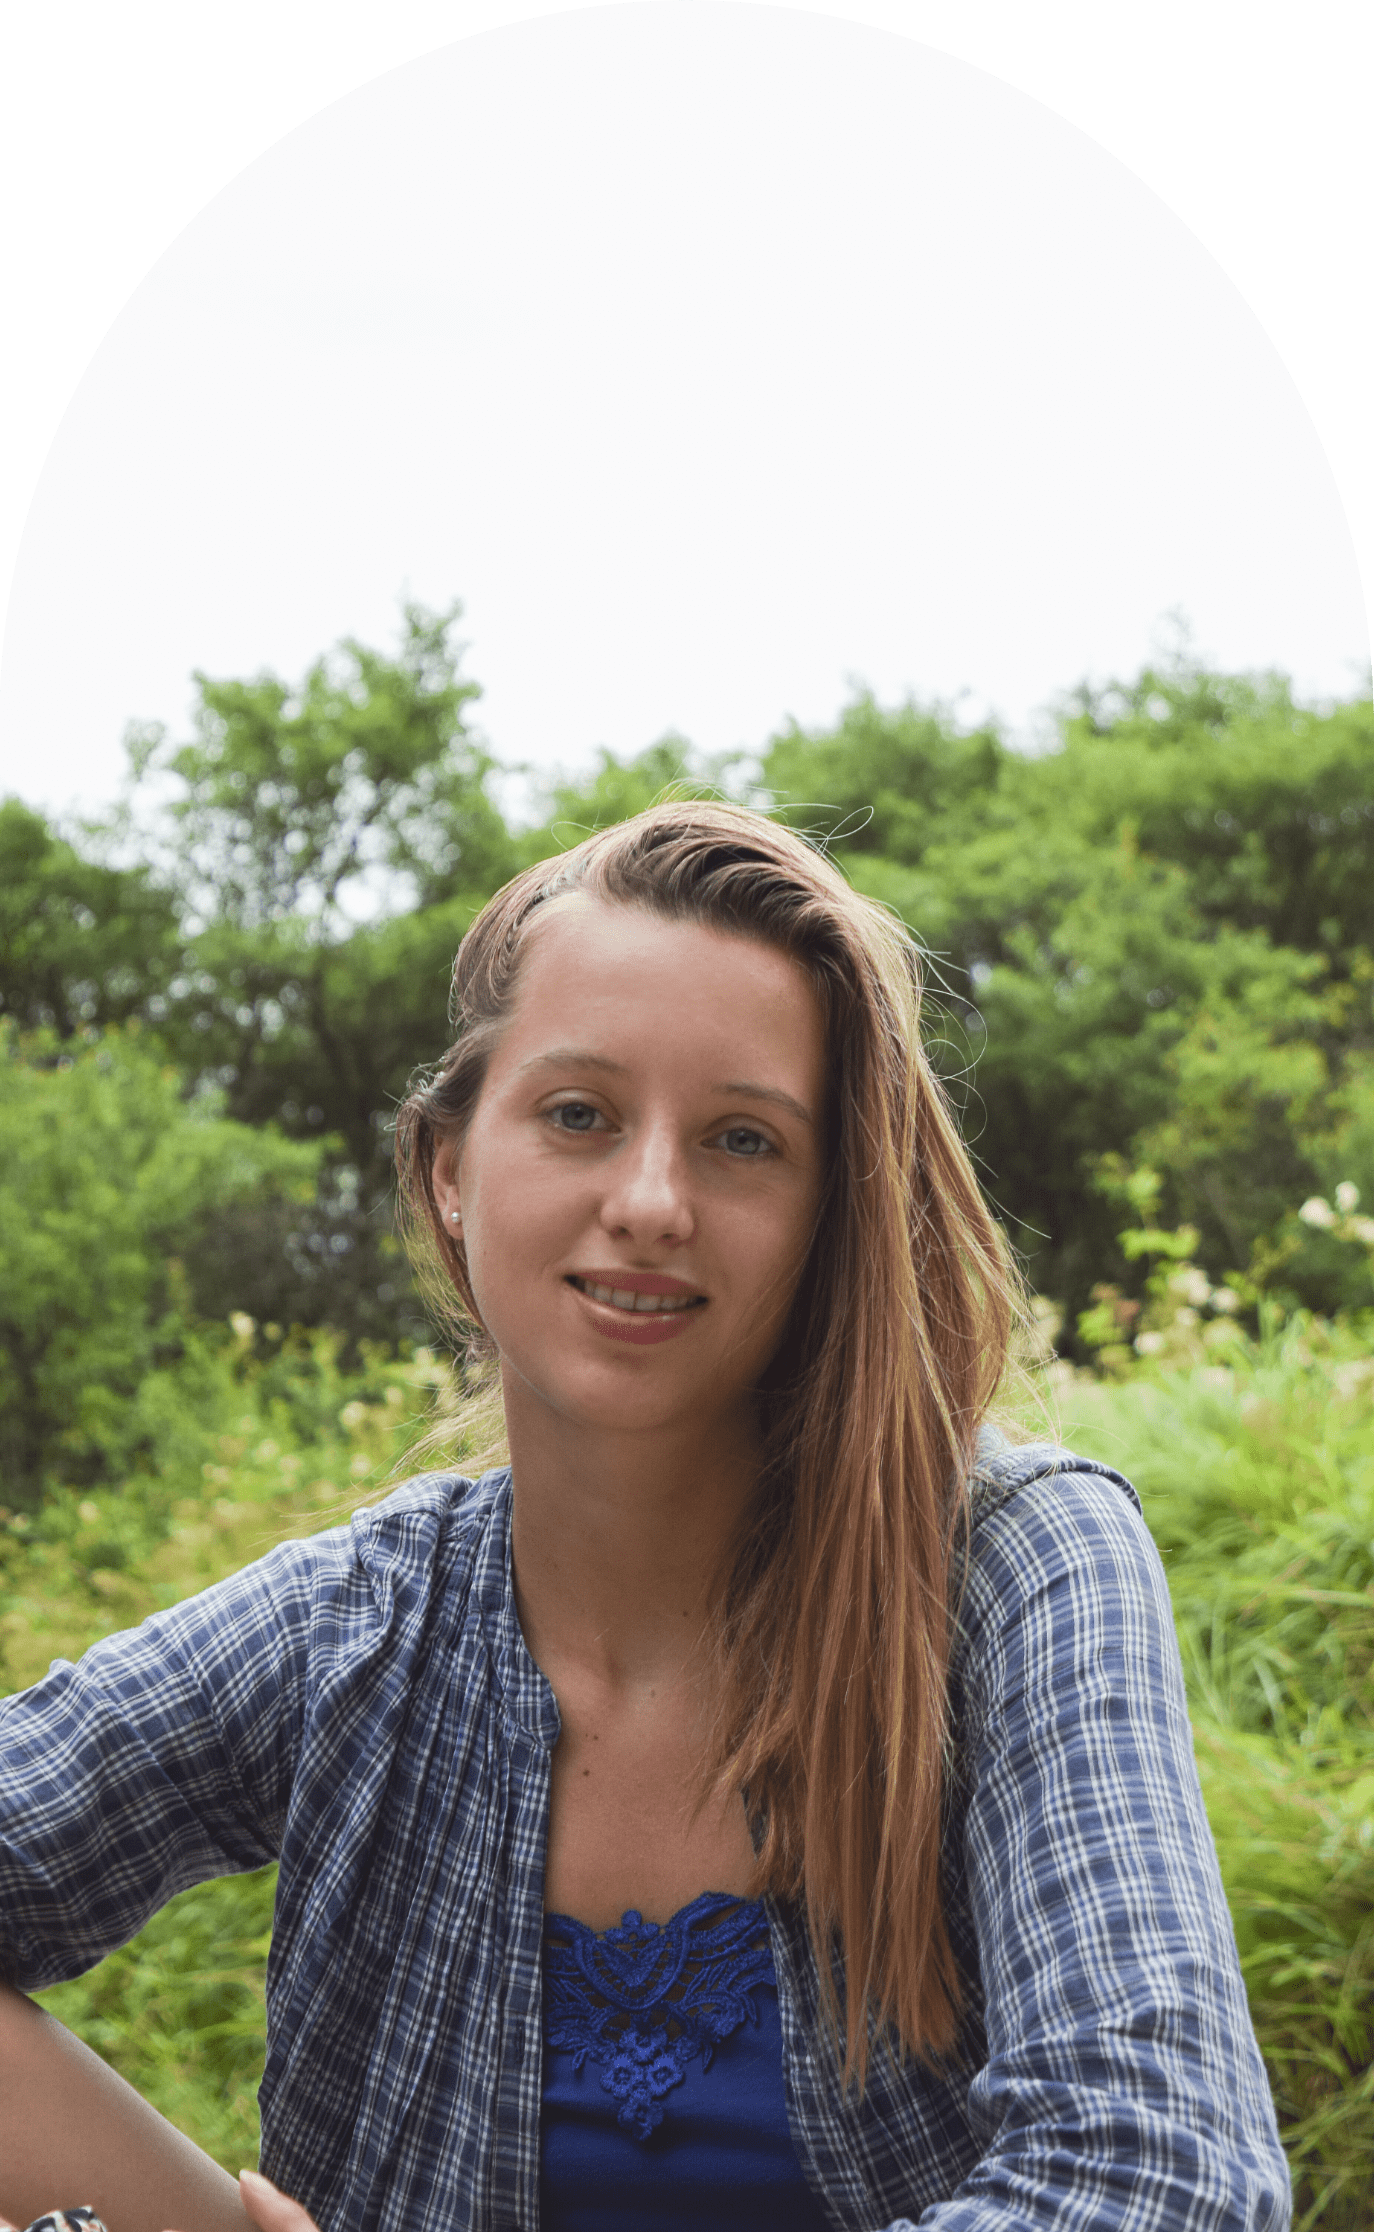
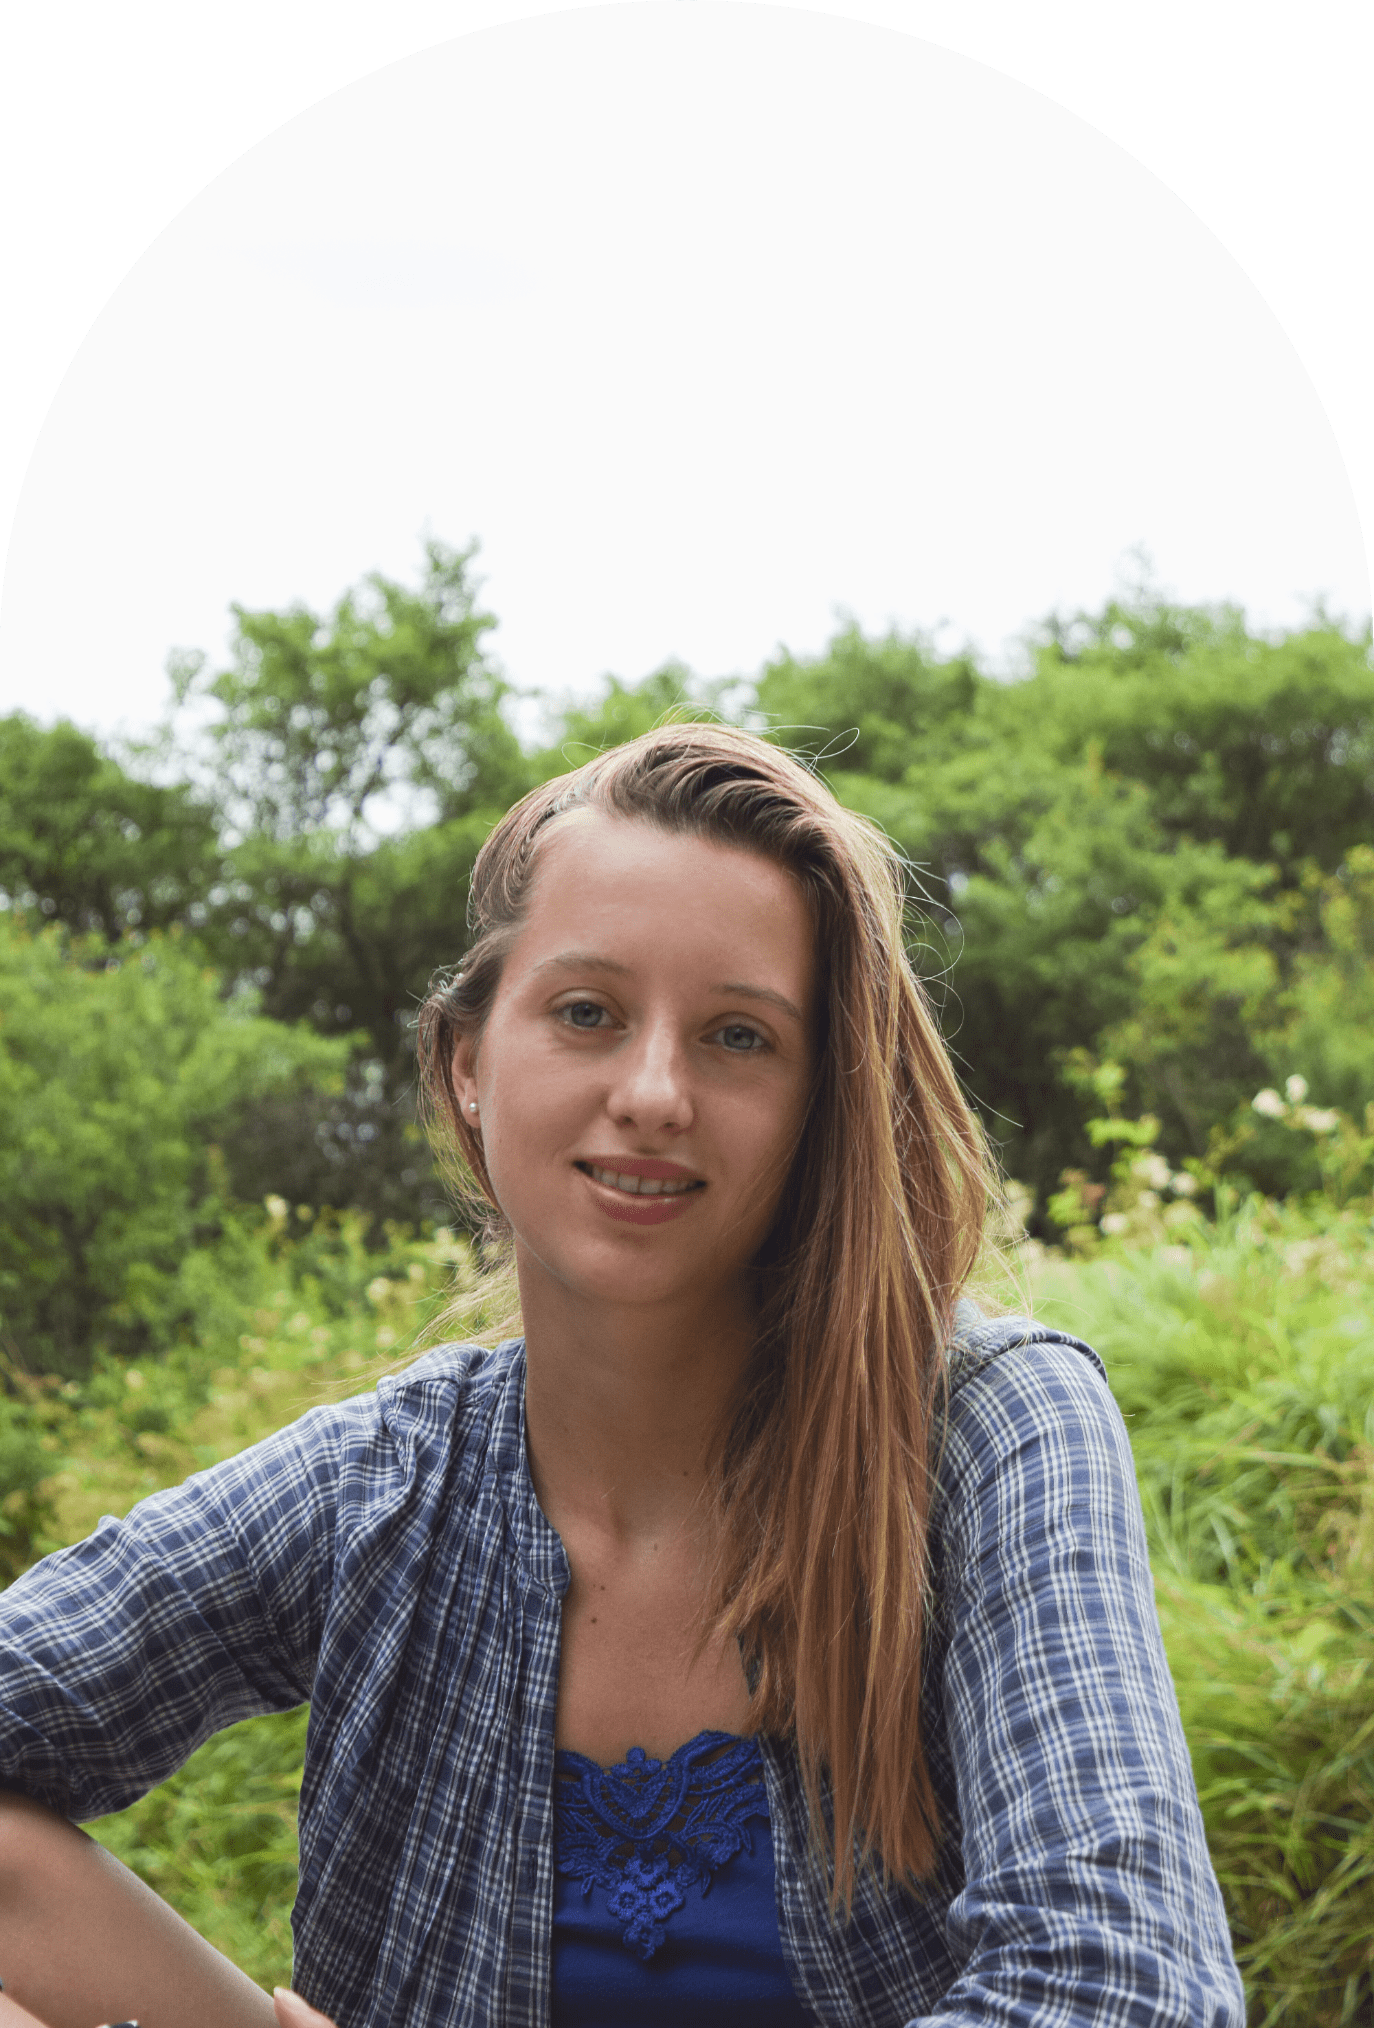
over mij page

diff --git a/pages/over-mij.js b/pages/over-mij.js
@@ -1,67 +1,71 @@
 import { Fragment } from "react";
 import ScrollNavbar from "../components/layout/ScrollNavbar";
 import Image from "next/image";
+import Section from "../components/layout/Section";
+import ContactFormSection from "../components/sections/ContactFormSection";
 
 function overmij() {
   return (
     <Fragment>
       <ScrollNavbar fade={false} />
-      <div className=" min-h-screen">
-        <div className="border-white border max-w-6xl mx-auto relative z-10">
-          <div className="bg-white bg-opacity-70 p-10 m-1 mt-40">
-            <div className="flex flex-col lg:flex-row gap-10">
-              <div className="">
-                <Image
-                  src="/images/overmij/Emilyvanroomen.png"
-                  alt="bloemen achtergrond"
-                  width={458}
-                  height={744}
-                  priority
-                />
-              </div>
-              <div className="max-w-md lg:max-w-lg xl:max-w-2xl">
-                <div className="border-b-2 border-brown-pale2 inline-block pr-10 mb-5">
-                  <h1 className="title-2 text-left mb-2">OVER MIJ</h1>
+      <div className="mx-auto max-w-6xl pt-20 lg:hidden">
+        <h1 className="title-2 mb-2">Over mij</h1>
+        <div className="border-b-2 border-brown-pale2 w-full max-w-xs mx-auto mb-10"></div>
+      </div>
+      <div className="bg-grey-light2 py-10 lg:py-40">
+        <div className="hidden lg:block">
+          <h1 className="title-2 mb-2">Over mij</h1>
+          <div className="border-b-2 border-brown-pale2 w-full max-w-xs mx-auto mb-10"></div>
+        </div>
+        <div className="mx-auto max-w-6xl px-4">
+          <div className="border-white border relative z-10">
+            <div className="bg-white bg-opacity-70 p-10 m-1">
+              <div className="flex flex-col lg:flex-row gap-10">
+                <div className="text-center">
+                  <Image
+                    src="/images/overmij/Emilyvanroomen.png"
+                    alt="Emily van Roomen"
+                    width={458}
+                    height={676}
+                    priority
+                  />
                 </div>
-                <p>
-                  Sinds mijn 16e ben ik al geïnteresseerd in het maken van
-                  foto’s (ik ben nu 24). Op de middelbare school volgde ik
-                  kunstvakken waaronder fotografie. Daar kwam ik voor het eerst
-                  in aanraking met een spiegelreflex camera. Ik kan me
-                  herinneren dat ik veel op de grond heb gelegen om foto’s te
-                  maken van onze honden, iets wat ik nu nog steeds doe! Na de
-                  middelbare school studeerde ik Biologie en Bos- en
-                  Natuurbeheer. Ondertussen verdiepte ik mijn kennis in
-                  fotografie en werd ik bekend met professionele camera’s en
-                  apparatuur. Na mijn studie wist ik niet zo goed wat ik wilde,
-                  ik wilde eigenlijk niet door met een master dus dat deed ik
-                  ook niet. Ik ben gaan ondernemen en reizen, en in die tijd
-                  realiseerde ik me dat ik fotograaf wilde worden!
-                </p>
-                <p className="mt-5">
-                  Ik heb via een eigen weg mijn stijl en vaardigheden
-                  ontwikkeld. Het is ongelofelijk hoeveel je kunt leren via het
-                  internet, voor mij was dit de manier om te groeien tot de
-                  fotograaf die ik nu ben. Ik hou van natuurlijke foto’s, zowel
-                  de manier hoe ik iemand op de foto zet als het daadwerkelijk
-                  fotograferen in de natuur. Lichte foto’s met een mooie balans
-                  aan kleuren. Niet te geposeerd of gemaakt, gewoon hoe het is.
-                  Met veel detail zoek ik naar de mooiste plekjes en hoeken om
-                  het onderwerp eruit te laten springen, en met veel plezier en
-                  zorg bewerk ik al mijn foto’s na tot een kunstwerkje!
-                </p>
+                <div className="max-w-md lg:max-w-lg xl:max-w-2xl mx-auto text-center lg:text-left">
+                  <p>
+                    Sinds mijn 16e ben ik al geïnteresseerd in het maken van
+                    foto’s (ik ben nu 24). Op de middelbare school volgde ik
+                    kunstvakken waaronder fotografie. Daar kwam ik voor het
+                    eerst in aanraking met een spiegelreflex camera. Ik kan me
+                    herinneren dat ik veel op de grond heb gelegen om foto’s te
+                    maken van onze honden, iets wat ik nu nog steeds doe! Na de
+                    middelbare school studeerde ik Biologie en Bos- en
+                    Natuurbeheer. Ondertussen verdiepte ik mijn kennis in
+                    fotografie en werd ik bekend met professionele camera’s en
+                    apparatuur. Na mijn studie wist ik niet zo goed wat ik
+                    wilde, ik wilde eigenlijk niet door met een master dus dat
+                    deed ik ook niet. Ik ben gaan ondernemen en reizen, en in
+                    die tijd realiseerde ik me dat ik fotograaf wilde worden!
+                  </p>
+                  <p className="mt-5">
+                    Ik heb via een eigen weg mijn stijl en vaardigheden
+                    ontwikkeld. Het is ongelofelijk hoeveel je kunt leren via
+                    het internet, voor mij was dit de manier om te groeien tot
+                    de fotograaf die ik nu ben. Ik hou van natuurlijke foto’s,
+                    zowel de manier hoe ik iemand op de foto zet als het
+                    daadwerkelijk fotograferen in de natuur. Lichte foto’s met
+                    een mooie balans aan kleuren. Niet te geposeerd of gemaakt,
+                    gewoon hoe het is. Met veel detail zoek ik naar de mooiste
+                    plekjes en hoeken om het onderwerp eruit te laten springen,
+                    en met veel plezier en zorg bewerk ik al mijn foto’s na tot
+                    een kunstwerkje!
+                  </p>
+                </div>
               </div>
             </div>
           </div>
         </div>
-        <Image
-          src="/images/overmij/bg.png"
-          alt="bloemen achtergrond"
-          layout="fill"
-          objectFit="cover"
-          priority
-        />
       </div>
+      <ContactFormSection />
     </Fragment>
   );
 }

diff --git a/components/layout/mobileNavigation.js b/components/layout/mobileNavigation.js
@@ -140,6 +140,14 @@ function mobileNavigation() {
                 <h2 className="ml-12">Portfolio</h2>
               </li>
             </Link>
+            <Link href="/fotoshoot-cadeaubon">
+              <li
+                onClick={() => setMobileMenuExtended(false)}
+                className="py-2 border-b border-opacity-25 cursor-pointer text-brown-pale"
+              >
+                <h2 className="ml-12">Cadeaubon</h2>
+              </li>
+            </Link>
             <Link href="/over-mij">
               <li
                 onClick={() => setMobileMenuExtended(false)}
